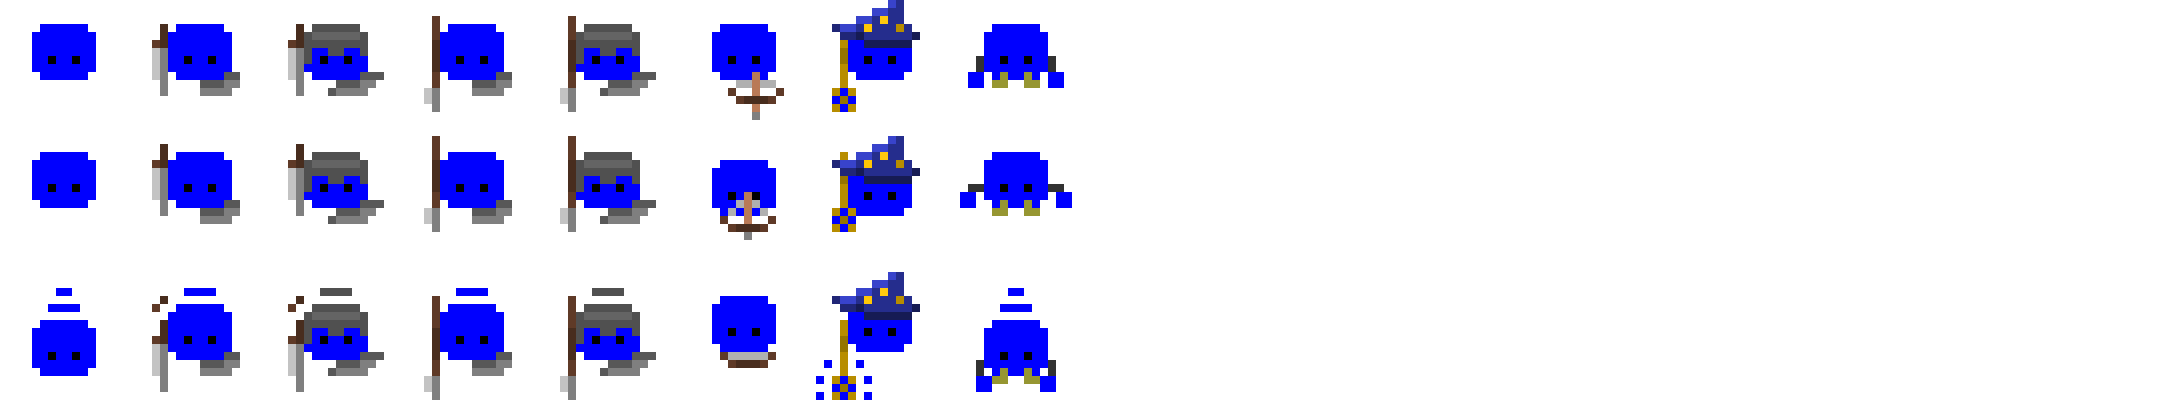
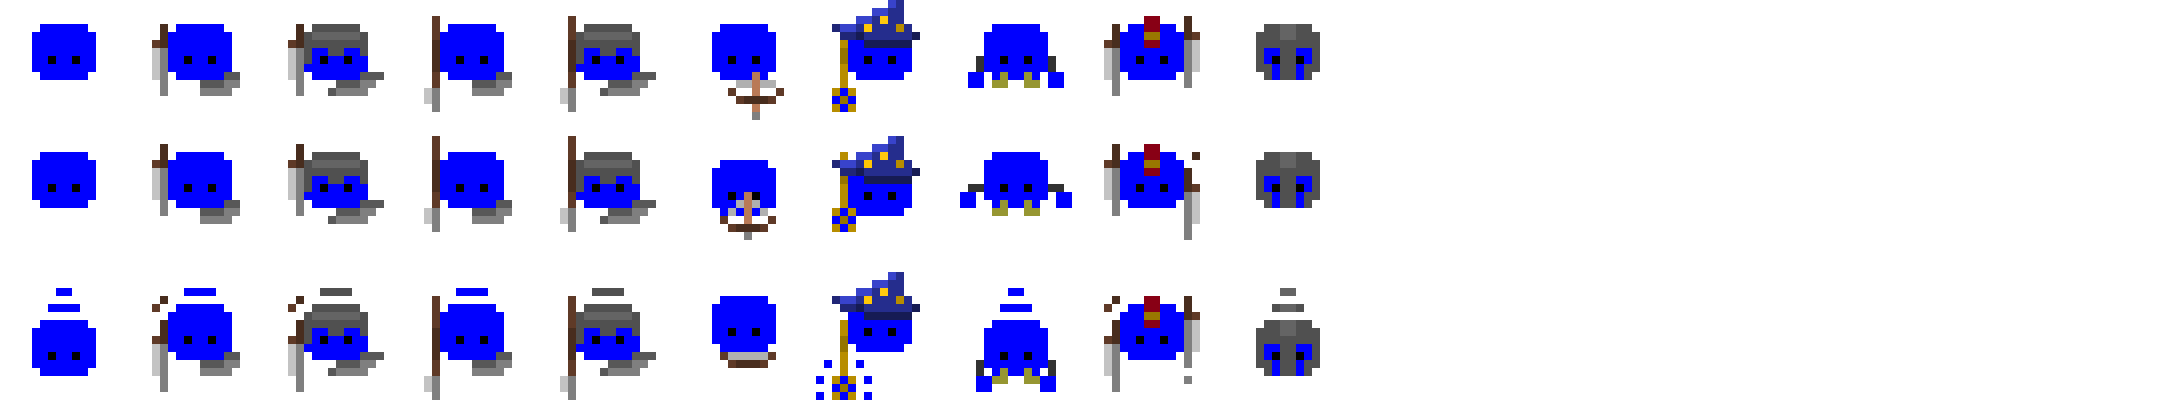
2 more units

Changed region(s): [[0.4945, 0.72, 0.6181, 0.96], [0.4945, 0.36, 0.6181, 0.6], [0.4945, 0.03, 0.6181, 0.24]]

diff --git a/js/mock.js b/js/mock.js
@@ -6,7 +6,7 @@ const COLORS = [
 const UNIT_TYPES = [
     MilitiaWarrior, SwordsmanWarrior, HeavySwordsmanWarrior,
     SpearmanWarrior, HeavySpearmanWarrior, ArcherWarrior, 
-    WizardWarrior, BruteWarrior
+    WizardWarrior, BruteWarrior, BarbarianWarrior, TankWarrior
 ];
 
 
@@ -23,7 +23,7 @@ function getRandomTeam(color, nofMembers, rootX, spreadX, rootY, spreadY) {
 } 
 
 function getTeams(br) {
-    let u = 1000;
+    let u = 100;
     let team1 = getRandomTeam(Gmt.choice(COLORS), u, 250, 200, br.height/2 + 25, br.height/2 - 50);
     let team2 = getRandomTeam(Gmt.choice(COLORS.filter(c => c !== team1.color)), u, br.width - 250, 200, br.height/2 + 25, br.height/2 - 50);
     return [team1, team2];

diff --git a/js/src/warriors/units/barbarian.js b/js/src/warriors/units/barbarian.js
@@ -1,0 +1,20 @@
+const BarbarianWarriorSTATS = {
+    maxHp: 50,
+    armor: 0,
+    spriteRow: 8,
+    displaySize: DEFAULT.UNIT_SPRITE_SIZE * 1.1,
+    attackWindup: 200,
+    attackWinddown: 200,
+    attackCooldown: 700, 
+    minAttack: 3,
+    maxAttack: 5,
+    collisonSize: DEFAULT.UNIT_COLLISION_SIZE * 1.1,
+    speed: DEFAULT.UNIT_SPEED * 1.3, 
+    range: DEFAULT.UNIT_MELEE_RANGE * 0.9
+};
+
+class BarbarianWarrior extends MeleeWarrior {
+    constructor() {
+        super(BarbarianWarriorSTATS);
+    }
+}

diff --git a/js/src/warriors/units/tank.js b/js/src/warriors/units/tank.js
@@ -1,0 +1,20 @@
+const TankWarriorSTATS = {
+    maxHp: 40,
+    armor: 8,
+    spriteRow: 9,
+    displaySize: DEFAULT.UNIT_SPRITE_SIZE * 1.2,
+    attackWindup: 400,
+    attackWinddown: 300,
+    attackCooldown: 1500, 
+    minAttack: 3,
+    maxAttack: 8,
+    collisonSize: DEFAULT.UNIT_COLLISION_SIZE * 1.2,
+    speed: DEFAULT.UNIT_SPEED * 0.7, 
+    range: DEFAULT.UNIT_MELEE_RANGE
+};
+
+class TankWarrior extends MeleeWarrior {
+    constructor() {
+        super(TankWarriorSTATS);
+    }
+}

diff --git a/index.html b/index.html
@@ -25,6 +25,8 @@
         <script src="js/src/warriors/units/archer.js"></script>
         <script src="js/src/warriors/units/wizard.js"></script>
         <script src="js/src/warriors/units/brute.js"></script>
+        <script src="js/src/warriors/units/barbarian.js"></script> 
+        <script src="js/src/warriors/units/tank.js"></script> 
         <script src="js/src/team.js"></script>
         <!-- MOCK -->
         <script src='js/mock.js'></script>

diff --git a/js/src/warriors/units/wizard.js b/js/src/warriors/units/wizard.js
@@ -6,8 +6,8 @@ const WizardWarriorSTATS = {
     attackWindup: 500,
     attackWinddown: 800,
     attackCooldown: 3500, 
-    minAttack: 5,
-    maxAttack: 10,
+    minAttack: 3,
+    maxAttack: 8,
     collisonSize: DEFAULT.UNIT_COLLISION_SIZE * 0.8,
     speed: DEFAULT.UNIT_SPEED * 1, 
     range: DEFAULT.UNIT_RANGED_RANGE * 0.7, 

diff --git a/js/src/warriors/units/archer.js b/js/src/warriors/units/archer.js
@@ -6,8 +6,8 @@ const ArcherWarriorSTATS = {
     attackWindup: 800,
     attackWinddown: 500,
     attackCooldown: 2500, 
-    minAttack: 6,
-    maxAttack: 12,
+    minAttack: 3,
+    maxAttack: 5,
     collisonSize: DEFAULT.UNIT_COLLISION_SIZE,
     speed: DEFAULT.UNIT_SPEED * 1, 
     range: DEFAULT.UNIT_RANGED_RANGE, 

diff --git a/js/src/warriors/healthbar.js b/js/src/warriors/healthbar.js
@@ -9,7 +9,7 @@ class HealthBar {
 
     damage(number) {
         number -= this.armor;
-        number = number > 0 ? number : 0;
+        number = number > 1 ? number : 1;
         this.curr -= number;
         if(this.curr <= 0) {
             this.alive = false;
